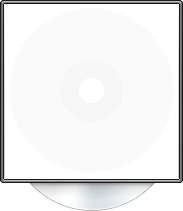
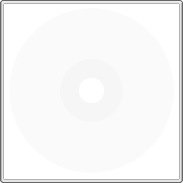
UPDATE split disc and CD case, ellipsis also added since Slimbox updated

Changed region(s): [[0.0, 0.0, 1.0, 1.0]]

diff --git a/VoxGrowl.growlStyle/Contents/Resources/default.css b/VoxGrowl.growlStyle/Contents/Resources/default.css
@@ -18,7 +18,7 @@ body {
 #tips>div {
 	padding: 6px 10px;
 	border: 1px solid rgba(255,255,255,0.1);
-	border-top-color: rgba(255,255,255,0.2);
+	border-top-color: rgba(255,255,255,0.25);
 	border-bottom-color: rgba(0,0,0,1);
 	-webkit-border-radius: 4px;
 }
@@ -32,16 +32,30 @@ body {
 	top: 0;
 	left: 0;
 	width: 183px;
-	height: 211px;
+	height: 183px;
 	background: url(images/case.png) top left no-repeat;
+	z-index: 100;
+}
+
+#disc {
+	position: absolute;
+	top: 45px;
+	left: 8px;
+	width: 166px;
+	height: 166px;
+	background: url(images/disc.png) top left no-repeat;
+	z-index: -100;
 }
 
 #icon img {
-	width: 175px;
-	height: 175px;
-	margin-top: 4px;
-	margin-left: 4px;
-	background: #333;
+	width: 183px;
+	height: 183px;
+}
+
+#title, #text {
+	width: 100%;
+	overflow: hidden;
+	text-overflow: ellipsis;
 }
 
 #title {
@@ -63,11 +77,9 @@ body {
 	0% {
 		-webkit-box-shadow: inset 0 0 0 rgba(0,227,255,0);
 	}
-	
 	50% {
-		-webkit-box-shadow: inset 0 10px 20px rgba(0,227,255,0.15);
+		-webkit-box-shadow: inset 0 10px 25px rgba(0,227,255,0.15);
 	}
-	
 	100% {
 		-webkit-box-shadow: inset 0 0 0 rgba(0,227,255,0);
 	}

diff --git a/VoxGrowl.growlStyle/Contents/Resources/template.html b/VoxGrowl.growlStyle/Contents/Resources/template.html
@@ -31,6 +31,7 @@
 			<div id="icon">
 				<div id="case"></div>
 				<img src="growlimage://%image%" alt="icon" />
+				<div id="disc"></div>
 			</div>
 		</div>
 	</body>

diff --git a/README.md b/README.md
@@ -1,10 +1,10 @@
 VoxGrowl Growl Webkit Views
 ---------------------------
 
-Version:	1.1
+Version: 1.2
 
-Author:		Sparanoid
+Author: sparanoid
 
-Email:		info@sparanoid.com
+Email: info@sparanoid.com
 
-URL:		http://sparanoid.com/project/voxgrowl-and-slimbox/
+URL: http://sparanoid.com/project/slimbox-and-voxgrowl/
